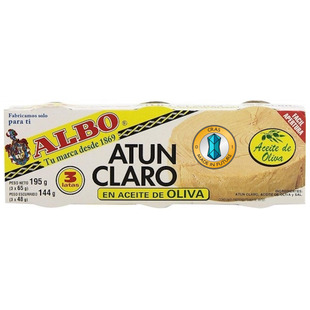
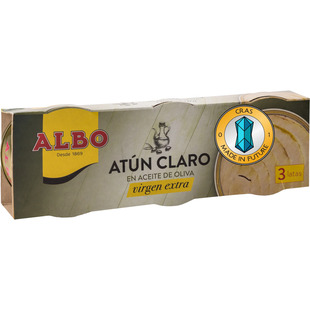
Changed Tuna Albo

diff --git a/js/food/array-tuna.js b/js/food/array-tuna.js
@@ -3,24 +3,26 @@ export const shopLotsTuna = [
         type: "wholesale",
         url: "./images/shop/food/canned_food/tuna/albo_atun_clato_oliva_195.jpg",
         alt: "albo_atun_clato_oliva_195",
-        url1: "./images/shop/food/canned_food/tuna/albo_atun_clato_oliva_195.jpg",
-        alt1: "albo_atun_clato_oliva_195",
+        url1: "./images/shop/food/canned_food/tuna/albo_atun_clato_oliva_195-01.jpg",
+        alt1: "albo_atun_clato_oliva_195-01",
+        url2: "./images/shop/food/canned_food/tuna/albo_atun_clato_oliva_195-02.jpg",
+        alt2: "albo_atun_clato_oliva_195-02",
         marker: "FDTA010",
         brand: "Albo",
-        search: "албо тунець тунец в оливковом оливковое масле масло оливкова олія масло рыба риба",
-        nameUKR: "Тунець в оливковій олії",
-        nameEN: "Atun Claro En Aceite De Oliva",
+        search: "atun албо тунець тунец в оливковом оливковое масле масло оливкова олія масло рыба риба первого отжима первый отжим",
+        nameUKR: "Тунець в оливковій олії першого віджимання",
+        nameEN: "Atún Claro En Aceite De Oliva Virgen Extra Virgen Extra",
         companyName: "Hijos de Carlos Albo S.L.U.",
         countryName: "Іспанія",
         weightName: "Вага",
         weight: "195 гр.",
         priceGRN: 132,
         priceGRNOpt: 118,
-        description01: "&#171Albo - Atun Claro En Aceite De Oliva&#187 - це вершина смаку та якості у світі морських продуктів. Кожен шматочок тунця - це справжній шедевр кулінарного мистецтва. Він виробляється з найкращих якісних інгредієнтів і зберігається в оливковій олії найвищої якості.",
+        description01: "&#171Albo - Atún Claro En Aceite De Oliva Virgen Extra&#187 - це вершина смаку та якості у світі морських продуктів. Кожен шматочок тунця - це справжній шедевр кулінарного мистецтва. Він виробляється з найкращих якісних інгредієнтів і зберігається в оливковій олії найвищої якості.",
         description02: "Олія, в якій тунець знаходиться, додає страві неперевершений аромат та м'якість. Кожен шматочок тунця має неймовірно ніжну текстуру та багатий смак. Це ідеальний варіант для приготування салатів, суші або просто як джерело натурального білка.",
-        description03: "Спробуйте &#171Albo - Atun Claro En Aceite De Oliva&#187 і відкрийте для себе справжній смак тунця. Цей продукт - це не просто страва, це смаковий досвід, який надихне вас на кулінарні експерименти та задовольнить найвибагливіших гурманів.",
-        description04: "<strong>Тунець у оливковій олії. Без консервантів.</strong>",
-        description05: "Не гайте часу даремно! Замовте &#171Albo - Atun Claro En Aceite De Oliva&#187 вже сьогодні і пориньте у світ смаку та задоволення, яким можна насолоджуватися щодня!"
+        description03: "Спробуйте &#171Albo - Atún Claro En Aceite De Oliva Virgen Extra&#187 і відкрийте для себе справжній смак тунця. Цей продукт - це не просто страва, це смаковий досвід, який надихне вас на кулінарні експерименти та задовольнить найвибагливіших гурманів.",
+        description04: "<strong>Тунець у оливковій олії першого віжимання. Без консервантів. 3 х 65 гр.</strong>",
+        description05: "Не гайте часу даремно! Замовте &#171Albo - Atún Claro En Aceite De Oliva Virgen Extra&#187 вже сьогодні і пориньте у світ смаку та задоволення, яким можна насолоджуватися щодня!"
     },
     {
         type: "wholesale",
